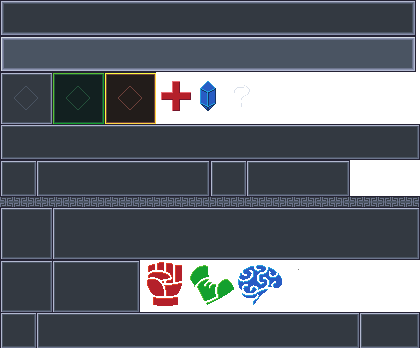
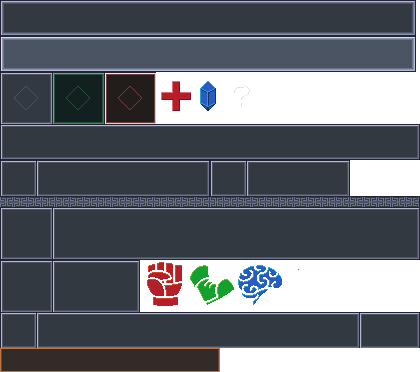
implement delayed mouse tooltips in char screen

diff --git a/screens/character_screen.py b/screens/character_screen.py
@@ -1,5 +1,5 @@
 import pygame
-from screens.screen import Screen, Button, write, write_centered, split_text_to_list
+from screens.screen import Screen, Button, TooltipBox, write, write_centered, split_text_to_list
 from sprites.tileset import TileSet
 from screens.subscreen import Subscreen
 from creatures.creature import Creature
@@ -13,6 +13,7 @@ from pygame.locals import (
 
 EQUIPMENT_START_X = 420
 INVENTORIES_START_X = 864
+STAT_TOOLTIP_START_Y = 284
 EQUIPMENT_ORDER = [
   "Head",
   "Chest",
@@ -41,6 +42,10 @@ class CharacterScreen(Subscreen):
 
     self.player_buttons = []
     self.set_player_buttons(tileset)
+
+    self.tooltips = []
+    self.stat_tooltips = []
+    self.initialize_tooltips(tileset)
 
   def set_player_buttons(self, tileset: TileSet):
     self.player_buttons.clear()
@@ -83,110 +88,13 @@ class CharacterScreen(Subscreen):
     self.draw_inventories(screen)
     self.write_item_description(screen)
 
-  def update_player_stats(self, tileset: TileSet):
-    # Left: All stats, attributes, and statss. Increase them on level up here
-    self.stats_cache_surface = pygame.Surface((420, 800))
-    y = 0
-    self.stats_cache_surface.blit(tileset.get_ui("stats_icon_half_box"), (0,y))
-    self.stats_cache_surface.blit(tileset.get_ui("stats_health_icon"), (2,y+2))
-    write_centered(self.stats_cache_surface, "HP: " + str(self.creature.hp) + "/" + str(self.creature.get_max_hp()),
-          (122, y + 6), tileset.get_font(22))
-    self.stats_cache_surface.blit(tileset.get_ui("stats_icon_half_box"), (210,y))
-    self.stats_cache_surface.blit(tileset.get_ui("stats_mana_icon"), (212,y+2))
-    write_centered(self.stats_cache_surface, "MP: " + str(self.creature.mana) + "/" + str(self.creature.get_max_mana()),
-          (332, y + 6), tileset.get_font(22))
-    
-    y += 36
-    self.stats_cache_surface.blit(tileset.get_ui("stats_icon_half_box"), (0,y))
-    self.stats_cache_surface.blit(tileset.get_ui("armor_physical"), (8, y + 5))
-    write_centered(self.stats_cache_surface, "PA: " + str(self.creature.p_armor) + "/" + str(self.creature.get_p_armor_cap()),
-          (122, y + 6), tileset.get_font(22))
-    x = 210
-    self.stats_cache_surface.blit(tileset.get_ui("stats_icon_half_box"), (x,y))
-    self.stats_cache_surface.blit(tileset.get_ui("armor_magical"), (x + 8, y + 5))
-    write_centered(self.stats_cache_surface, "MA: " + str(self.creature.m_armor) + "/" + str(self.creature.get_m_armor_cap()),
-          (x + 122, y + 6), tileset.get_font(22))
-    
-    y += 36
-    self.stats_cache_surface.blit(tileset.get_ui("stats_icon_third_box"), (0,y))
-    self.stats_cache_surface.blit(tileset.get_ui("ap_active"), (6, y + 6))
-    write_centered(self.stats_cache_surface, "AP: " + str(self.creature.ap) + "/" + str(self.creature.max_ap),
-          (88, y + 6), tileset.get_font(22))
-    x = 140
-    self.stats_cache_surface.blit(tileset.get_ui("stats_icon_third_box"), (x,y))
-    self.stats_cache_surface.blit(tileset.get_ui("stats_question_icon"), (x+2, y+2))
-    write_centered(self.stats_cache_surface, "SPD: " + str(self.creature.get_speed()),
-          (x+88, y + 6), tileset.get_font(22))
-    x = 280
-    self.stats_cache_surface.blit(tileset.get_ui("stats_icon_third_box"), (x,y))
-    self.stats_cache_surface.blit(tileset.get_ui("stats_question_icon"), (x+2, y+2))
-    write_centered(self.stats_cache_surface, "INIT: " + str(self.creature.get_initiative()),
-          (x+88, y + 6), tileset.get_font(22))
-    
-    y += 36
-    x = 0
-    self.stats_cache_surface.blit(tileset.get_ui("stats_divider"), (x,y))
-
-    y += 12
-    self.stats_cache_surface.blit(tileset.get_ui("stats_weapon_box"), (x,y))
-    w = self.creature.equipment.slot("Main")
-    if w:
-      self.stats_cache_surface.blit(w.icon, (x+2,y+2))
-    else:
-      self.stats_cache_surface.blit(tileset.get_ui("unarmed_icon"), (x+2,y+2))
-    write(self.stats_cache_surface, "Damage: " + str(self.creature.get_attack_min()) + "-" + str(self.creature.get_attack_max()) + " " + self.creature.get_damage_type().capitalize(),
-          (x + 60, y + 2), tileset.get_font(20))
-    write(self.stats_cache_surface, "Cost: " + str(self.creature.get_attack_cost()) + " AP" + ", Range: " + str(self.creature.get_attack_range()),
-          (x + 60, y + 24), tileset.get_font(20))
-
-    y += 52
-    self.stats_cache_surface.blit(tileset.get_ui("stats_divider"), (x,y))
-
-    y += 12
-    self.stats_cache_surface.blit(tileset.get_ui("stats_title_box"), (0,y))
-    write(self.stats_cache_surface, "Attributes", (12, y + 4), tileset.get_font())
-
-    y += 36
-    self.stats_cache_surface.blit(tileset.get_ui("stats_icon_third_box_large"), (0,y))
-    self.stats_cache_surface.blit(tileset.get_ui("brawn_icon"), (2, y + 2))
-    write_centered(self.stats_cache_surface, str(self.creature.get_attribute("Brawn")),
-          (96, y + 12), tileset.get_font(26))
-    x = 140
-    self.stats_cache_surface.blit(tileset.get_ui("stats_icon_third_box_large"), (x,y))
-    self.stats_cache_surface.blit(tileset.get_ui("agility_icon"), (x+2, y + 2))
-    write_centered(self.stats_cache_surface, str(self.creature.get_attribute("Agility")),
-          (x+96, y + 12), tileset.get_font(26))
-    x = 280
-    self.stats_cache_surface.blit(tileset.get_ui("stats_icon_third_box_large"), (x,y))
-    self.stats_cache_surface.blit(tileset.get_ui("will_icon"), (x+2, y + 2))
-    write_centered(self.stats_cache_surface, str(self.creature.get_attribute("Will")),
-          (x+96, y + 12), tileset.get_font(26))
-
-    x = 0
-    y += 52
-    self.stats_cache_surface.blit(tileset.get_ui("stats_divider"), (x,y))
-
-    y += 12
-    self.stats_cache_surface.blit(tileset.get_ui("stats_title_box"), (0,y))
-    write(self.stats_cache_surface, "Stats", (12, y + 4), tileset.get_font())
-
-    y += 36
-    stats = self.creature.stats.items()
-    if stats:
-      for stat, value in stats:
-        self.stats_cache_surface.blit(tileset.get_ui("stats_stat_box"), (0,y))
-        self.stats_cache_surface.blit(tileset.get_ui("stats_question_icon"), (2, y+2))
-        write_centered(self.stats_cache_surface, stat, (198, y + 4), tileset.get_font())
-        if value < 0:
-          colour = tileset.HP_RED
-        else:
-          colour = tileset.WHITE
-        write_centered(self.stats_cache_surface, str(value), (390, y + 4), tileset.get_font(), colour)
-        y += 36
-    else:
-      self.stats_cache_surface.blit(tileset.get_ui("stats_title_box"), (0,y))
-      write(self.stats_cache_surface, "No stats to speak of...", (12, y + 4), tileset.get_font())
-      y += 36
+    if mouse_x < EQUIPMENT_START_X:
+      if mouse_y < STAT_TOOLTIP_START_Y:
+        for t in self.tooltips:
+          t.draw(screen, mouse_x, mouse_y)
+      else:
+        for t in self.stat_tooltips:
+          t.draw(screen, mouse_x, mouse_y)
 
   def draw_inventories(self, screen: Screen):
     x,y = INVENTORIES_START_X, 0
@@ -393,3 +301,157 @@ class CharacterScreen(Subscreen):
       self.clicked_item = None
       self.clicked_player = None
     self.update_player_stats(self.tileset)
+
+  def update_player_stats(self, tileset: TileSet):
+    # Left: All stats, attributes, and statss. Increase them on level up here
+    self.stats_cache_surface = pygame.Surface((420, 800))
+    y = 0
+    self.stats_cache_surface.blit(tileset.get_ui("stats_icon_half_box"), (0,y))
+    self.stats_cache_surface.blit(tileset.get_ui("stats_health_icon"), (2,y+2))
+    write_centered(self.stats_cache_surface, "HP: " + str(self.creature.hp) + "/" + str(self.creature.get_max_hp()),
+          (122, y + 6), tileset.get_font(22))
+    self.stats_cache_surface.blit(tileset.get_ui("stats_icon_half_box"), (210,y))
+    self.stats_cache_surface.blit(tileset.get_ui("stats_mana_icon"), (212,y+2))
+    write_centered(self.stats_cache_surface, "MP: " + str(self.creature.mana) + "/" + str(self.creature.get_max_mana()),
+          (332, y + 6), tileset.get_font(22))
+    
+    y += 36
+    self.stats_cache_surface.blit(tileset.get_ui("stats_icon_half_box"), (0,y))
+    self.stats_cache_surface.blit(tileset.get_ui("armor_physical"), (8, y + 5))
+    write_centered(self.stats_cache_surface, "PA: " + str(self.creature.p_armor) + "/" + str(self.creature.get_p_armor_cap()),
+          (122, y + 6), tileset.get_font(22))
+    x = 210
+    self.stats_cache_surface.blit(tileset.get_ui("stats_icon_half_box"), (x,y))
+    self.stats_cache_surface.blit(tileset.get_ui("armor_magical"), (x + 8, y + 5))
+    write_centered(self.stats_cache_surface, "MA: " + str(self.creature.m_armor) + "/" + str(self.creature.get_m_armor_cap()),
+          (x + 122, y + 6), tileset.get_font(22))
+    
+    y += 36
+    self.stats_cache_surface.blit(tileset.get_ui("stats_icon_third_box"), (0,y))
+    self.stats_cache_surface.blit(tileset.get_ui("ap_active"), (6, y + 6))
+    write_centered(self.stats_cache_surface, "AP: " + str(self.creature.ap) + "/" + str(self.creature.max_ap),
+          (88, y + 6), tileset.get_font(22))
+    x = 140
+    self.stats_cache_surface.blit(tileset.get_ui("stats_icon_third_box"), (x,y))
+    self.stats_cache_surface.blit(tileset.get_ui("stats_question_icon"), (x+2, y+2))
+    write_centered(self.stats_cache_surface, "SPD: " + str(self.creature.get_speed()),
+          (x+88, y + 6), tileset.get_font(22))
+    x = 280
+    self.stats_cache_surface.blit(tileset.get_ui("stats_icon_third_box"), (x,y))
+    self.stats_cache_surface.blit(tileset.get_ui("stats_question_icon"), (x+2, y+2))
+    write_centered(self.stats_cache_surface, "INIT: " + str(self.creature.get_initiative()),
+          (x+88, y + 6), tileset.get_font(22))
+    
+    y += 36
+    x = 0
+    self.stats_cache_surface.blit(tileset.get_ui("stats_divider"), (x,y))
+
+    y += 12
+    self.stats_cache_surface.blit(tileset.get_ui("stats_weapon_box"), (x,y))
+    w = self.creature.equipment.slot("Main")
+    if w:
+      self.stats_cache_surface.blit(w.icon, (x+2,y+2))
+    else:
+      self.stats_cache_surface.blit(tileset.get_ui("unarmed_icon"), (x+2,y+2))
+    write(self.stats_cache_surface, "Damage: " + str(self.creature.get_attack_min()) + "-" + str(self.creature.get_attack_max()) + " " + self.creature.get_damage_type().capitalize(),
+          (x + 60, y + 2), tileset.get_font(20))
+    write(self.stats_cache_surface, "Cost: " + str(self.creature.get_attack_cost()) + " AP" + ", Range: " + str(self.creature.get_attack_range()),
+          (x + 60, y + 24), tileset.get_font(20))
+
+    y += 52
+    self.stats_cache_surface.blit(tileset.get_ui("stats_divider"), (x,y))
+
+    y += 12
+    self.stats_cache_surface.blit(tileset.get_ui("stats_title_box"), (0,y))
+    write(self.stats_cache_surface, "Attributes", (12, y + 4), tileset.get_font())
+
+    y += 36
+    self.stats_cache_surface.blit(tileset.get_ui("stats_icon_third_box_large"), (0,y))
+    self.stats_cache_surface.blit(tileset.get_ui("brawn_icon"), (2, y + 2))
+    write_centered(self.stats_cache_surface, str(self.creature.get_attribute("Brawn")),
+          (96, y + 12), tileset.get_font(26))
+    x = 140
+    self.stats_cache_surface.blit(tileset.get_ui("stats_icon_third_box_large"), (x,y))
+    self.stats_cache_surface.blit(tileset.get_ui("agility_icon"), (x+2, y + 2))
+    write_centered(self.stats_cache_surface, str(self.creature.get_attribute("Agility")),
+          (x+96, y + 12), tileset.get_font(26))
+    x = 280
+    self.stats_cache_surface.blit(tileset.get_ui("stats_icon_third_box_large"), (x,y))
+    self.stats_cache_surface.blit(tileset.get_ui("will_icon"), (x+2, y + 2))
+    write_centered(self.stats_cache_surface, str(self.creature.get_attribute("Will")),
+          (x+96, y + 12), tileset.get_font(26))
+
+    x = 0
+    y += 52
+    self.stats_cache_surface.blit(tileset.get_ui("stats_divider"), (x,y))
+
+    y += 12
+    self.stats_cache_surface.blit(tileset.get_ui("stats_title_box"), (0,y))
+    write(self.stats_cache_surface, "Stats", (12, y + 4), tileset.get_font())
+
+    y += 36
+    stats = self.creature.stats.items()
+    if stats:
+      for stat, value in stats:
+        self.stats_cache_surface.blit(tileset.get_ui("stats_stat_box"), (0,y))
+        self.stats_cache_surface.blit(tileset.get_ui("stats_question_icon"), (2, y+2))
+        write_centered(self.stats_cache_surface, stat, (198, y + 4), tileset.get_font())
+        if value < 0:
+          colour = tileset.HP_RED
+        else:
+          colour = tileset.WHITE
+        write_centered(self.stats_cache_surface, str(value), (390, y + 4), tileset.get_font(), colour)
+        y += 36
+    else:
+      self.stats_cache_surface.blit(tileset.get_ui("stats_title_box"), (0,y))
+      write(self.stats_cache_surface, "No stats to speak of...", (12, y + 6), tileset.get_font(18))
+      y += 36
+
+    self.update_stat_tooltips(tileset)
+
+  def initialize_tooltips(self, tileset: TileSet):
+    # A bunch of hardcoded values for now...
+    y = 0
+    self.tooltips.append(self.create_tooltip(tileset, (0, y, 210, 36), "Hit Points", "Keep these above 0 for longer than your enemies and you win!"))
+    self.tooltips.append(self.create_tooltip(tileset, (210, y, 210, 36), "Mana", "Use this to cast powerful spells."))
+    y += 36
+
+    self.tooltips.append(self.create_tooltip(tileset, (0, y, 210, 36), "Physical Armor", "Absorbs damage from physical sources."))
+    self.tooltips.append(self.create_tooltip(tileset, (210, y, 210, 36), "Magical Armor", "Absorbs damage from magical sources."))
+    y += 36
+
+    self.tooltips.append(self.create_tooltip(tileset, (0, y, 140, 36), "Action Points", "How many things you can do each turn. Different actions cost differing amounts of action points."))
+    self.tooltips.append(self.create_tooltip(tileset, (140, y, 140, 36), "Speed", "How many tiles you can travel per action point used."))
+    self.tooltips.append(self.create_tooltip(tileset, (280, y, 140, 36), "Initiative", "How early your turn is in each combat queue."))
+    y += 36
+    y += 12
+
+    self.tooltips.append(self.create_tooltip(tileset, (0, y, 420, 52), "Weapon", "Your currently equipped weapon in your main hand, if any."))
+    y += 52
+    y += 12
+    y += 36
+
+    self.tooltips.append(self.create_tooltip(tileset, (0, y, 140, 52), "Brawn", ATTRIBUTE_LIST["Brawn"]))
+    self.tooltips.append(self.create_tooltip(tileset, (140, y, 140, 52), "Agility", ATTRIBUTE_LIST["Agility"]))
+    self.tooltips.append(self.create_tooltip(tileset, (280, y, 140, 52), "Will", ATTRIBUTE_LIST["Will"]))
+    y += 52
+    y += 12
+
+    self.update_stat_tooltips(tileset)
+
+  def update_stat_tooltips(self, tileset: TileSet):
+    y = STAT_TOOLTIP_START_Y
+    y += 36
+    stats = self.creature.stats.items()
+    if stats:
+      for stat, _ in stats:
+        self.stat_tooltips.append(self.create_tooltip(tileset, (0, y, 420, 36), stat, STAT_LIST[stat]))
+        y += 36
+
+  def create_tooltip(self, tileset: TileSet, rect, header, text):
+    x, y, width, height = rect
+    t = TooltipBox(text, (x,y,width,height), 212, tileset.get_ui("stats_tooltip_line"), tileset.get_font(16))
+    t.set_header(header, tileset.get_ui("stats_tooltip_line_header"), 18)
+    t.set_bottom_bg(tileset.get_ui("stats_tooltip_line_bottom"))
+    t.set_delay(6)
+    return t

diff --git a/screens/screen.py b/screens/screen.py
@@ -158,3 +158,59 @@ class Button:
 
       if bounds and self.tooltip_frames >= self.tooltip_delay:
         screen.write_centered(self.tooltip, (self.x + self.width // 2, self.y - self.tooltip_size - 2), screen.tileset.get_font(self.tooltip_size))
+
+class TooltipBox:
+  def __init__(self, text, rect, text_width, text_bg, font):
+    self.text_line = text
+    self.x, self.y, self.width, self.height = rect
+    self.text_bg = text_bg
+    self.font = font
+
+    self.header_text = None
+    self.header_bg = None
+    self.header_size = 0
+
+    self.bottom_bg = None
+
+    self.delay = 0
+    self.mouse_over = 0
+
+    self.text = split_text_to_list(self.text_line, text_width, self.font)
+
+  def set_header(self, header_text, header_bg, header_size):
+    self.header_text = header_text
+    self.header_bg = header_bg
+    self.header_size = header_size
+  
+  def set_bottom_bg(self, bottom_bg):
+    self.bottom_bg = bottom_bg
+
+  def set_delay(self, delay_frames):
+    self.delay = delay_frames
+
+  def in_bounds(self, mouse_x, mouse_y):
+    return mouse_x >= self.x and mouse_y >= self.y and mouse_x < self.x + self.width and mouse_y < self.y + self.height
+  
+  def draw(self, screen: Screen, mouse_x, mouse_y):
+    if self.in_bounds(mouse_x, mouse_y):
+      if self.mouse_over < self.delay:
+        self.mouse_over += 1
+      else:
+        x,y = mouse_x, mouse_y
+        line_height = self.text_bg.get_height()
+        if self.header_text:
+          screen.blit(self.header_bg, (x, y))
+          screen.write(self.header_text, (x + 4, y + 1), screen.tileset.get_font(self.header_size))
+          y += self.header_bg.get_height()
+        for line in self.text[:-1]:
+          screen.blit(self.text_bg, (x, y))
+          screen.write(line, (x + 4, y + 1), self.font)
+          y += line_height
+        
+        if self.bottom_bg:
+          screen.blit(self.bottom_bg, (x, y))
+        else:
+          screen.blit(self.text_bg, (x, y))
+        screen.write(self.text[-1], (x + 4, y + 1), self.font)
+    else:
+      self.mouse_over = 0

diff --git a/sprites/tileset.py b/sprites/tileset.py
@@ -347,6 +347,10 @@ class TileSet:
     self.ui["will_icon"] = full.subsurface((236,260,48,48))
     self.ui["unarmed_icon"] = full.subsurface((284,260,48,48))
     self.ui["stats_stat_box"] = full.subsurface((0,312,420,36))
+    self.ui["stats_tooltip_line_header"] = full.subsurface((0,348,220,22))
+    self.ui["stats_tooltip_line"] = full.subsurface((0,350,220,20))
+    self.ui["stats_tooltip_line_bottom"] = full.subsurface((0,350,220,22))
+
 
   def initialize_pickup_screen(self):
     full = pygame.image.load("assets/screens/pickup_screen.png")
